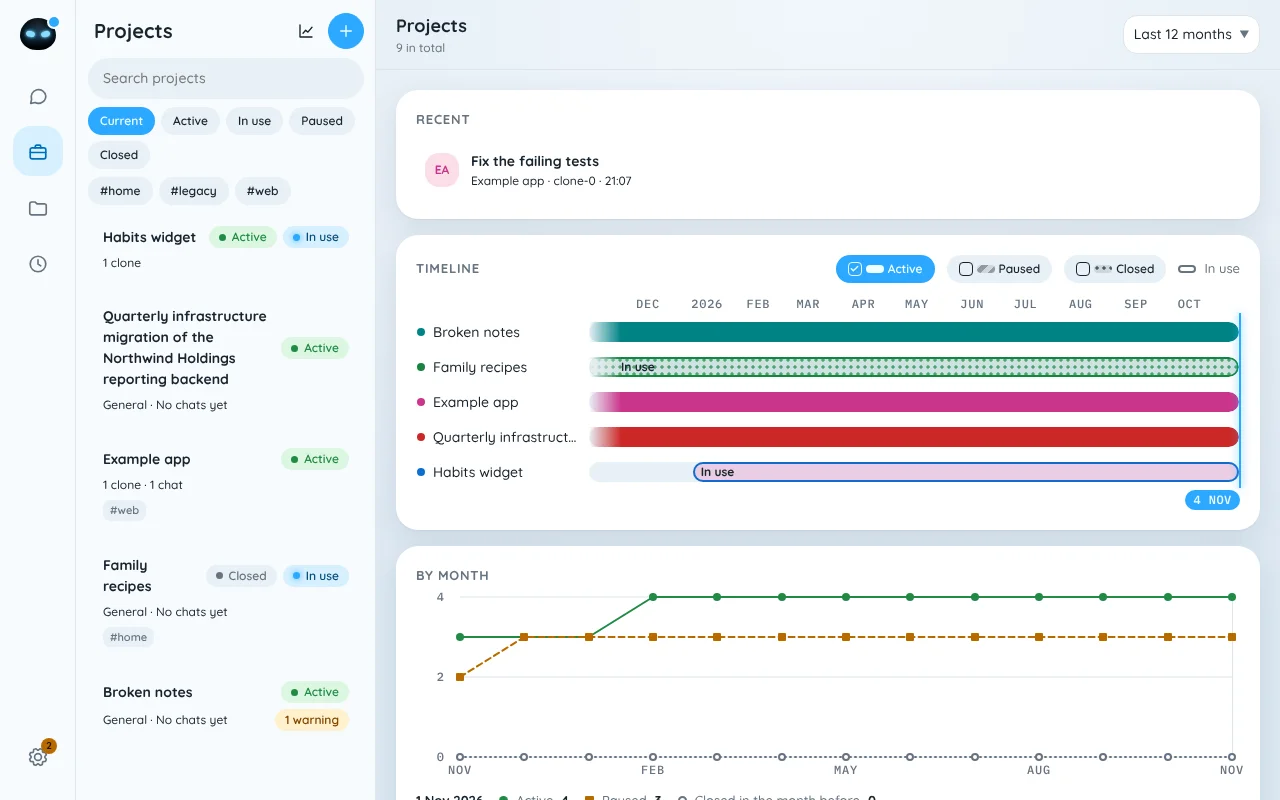
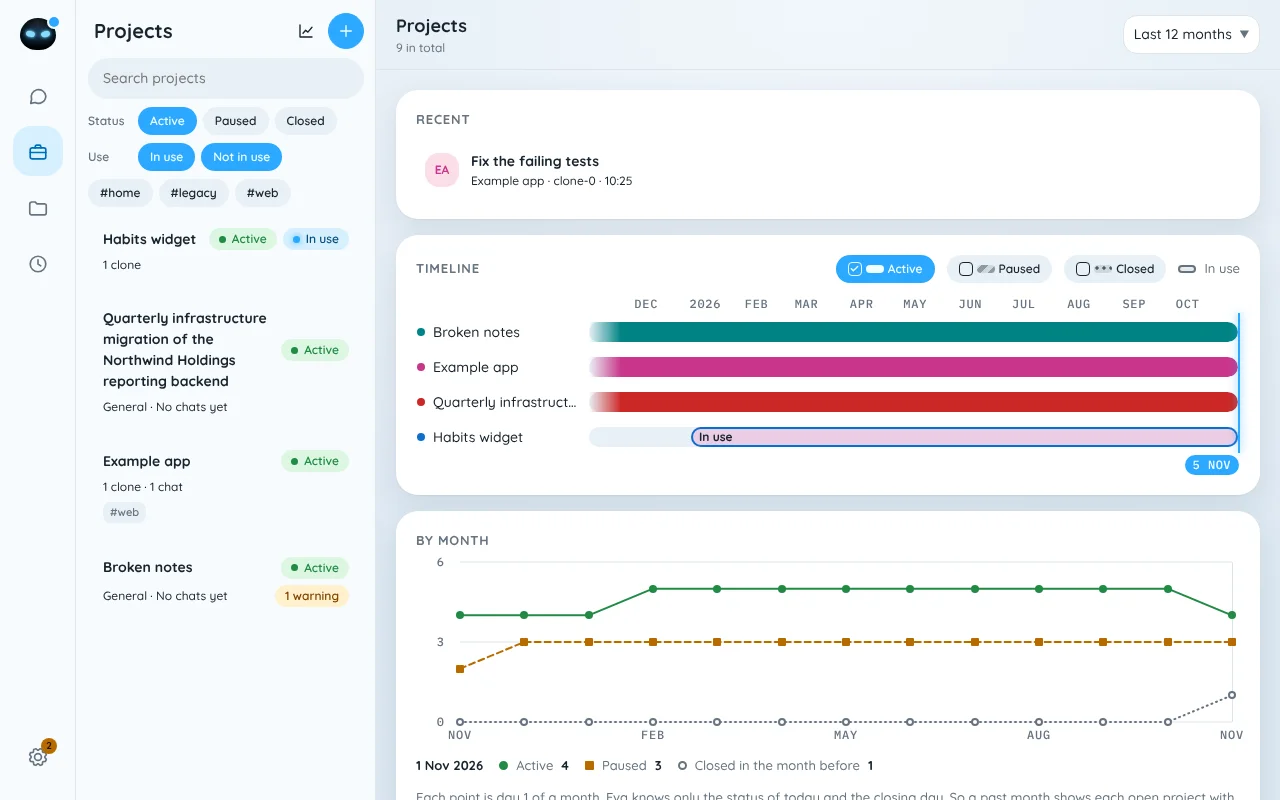
docs: describe the named Status and Use filter rows
Claude-Session: https://claude.ai/code/session_011YsmyhWXYaQNg3D8Punhc2

diff --git a/docs/guide/reference.md b/docs/guide/reference.md
@@ -312,7 +312,7 @@ A request from Eva's own computer can come from any program there, so only the t
 - **Status and In use:** the status of a project is the work on it: **Active** while you work on it, **Paused** while the work stops, and **Closed** when it ends. Apart from the status, tick **In use** in the details form when you use the project now, such as a project that makes the week's menus. A project can be active and in use: you still build it, and you use it every day. In the file, the box writes `in-use: true`.
   - Eva updates older projects when she starts: the old status **In use** becomes **Closed** with **In use** ticked, and the old status **Idea** becomes **Paused**.
   - `started:` and `closed:` are the days of the work. A project with no `started:` started when you created it. When a project closes, the details form asks for the day and writes `closed:`. A project that opens again loses `closed:`.
-  - The Projects page has two filters. **Status** lets you pick one or more of **Active**, **Paused** and **Closed**, or **All**. **In use** shows **All**, only the projects **In use**, or the ones **Not in use**. To pick every value, tap **All**, or tap each choice of the filter. A project shows when it matches both filters. The page opens with the active projects, in use or not. A status word typed in the search wins over both filters.
+  - The Projects page has two filter rows. Each row starts with its name. **Status** has **Active**, **Paused** and **Closed**. **Use** has **In use** and **Not in use**. Tap a choice to turn it on or off. A row with every choice on filters nothing. A row with no choice on shows the projects with no value for that field: no `status:`, or no `in-use:` key, which is the case of each project not in use. A project shows when it matches both rows. The page opens with **Active**, **In use** and **Not in use** on. A status word typed in the search wins over both rows.
   - With no project open, a computer shows the chats that need you, your recent chats, and the statistics of your projects: a timeline, a chart by month and the counts. Tap a count to filter the list.
   - Tap the chart icon beside the title of the list to open the statistics on their own page. This works on a phone too.
   - The picker at the top sets the range of the statistics. It starts at the last 12 months. Pick a quick range from the last month to the last 3 years, a whole year, **All**, or **Custom range** with two days.

diff --git a/docs/design/eve/README.md b/docs/design/eve/README.md
@@ -305,7 +305,7 @@ Each page has a computer and a phone capture, in light and dark. The light captu
 
 - The status and tag filters are one-tap chips, not drop-down menus.
 - The status has a colour and a shape. A project in use shows an "In use" pill beside its status pill. "In use" takes the `.live` pill, so it differs from the green "Active". Its dot has no glow, as on "Unread": nothing runs.
-- The list has two chip rows: Status, where the person can pick more than one status, and In use. Each row has "All". Every choice picked in a row reads as "All". The list opens with Active and All.
+- The list has two chip rows, Status and Use. Each row starts with its name in muted text, not with an "All" chip (#889). Each chip turns on and off by itself. Every chip on filters nothing. No chip on shows the projects with no value for that field. The list opens with Active, In use and Not in use on.
 - Each clone is a card with its branch, its state and its chats.
 - A project card shows the "Unread" pill while one of its chats has an answer that the person did not see.
 - A project page has a "Projects" back button beside its title, on both sizes.
